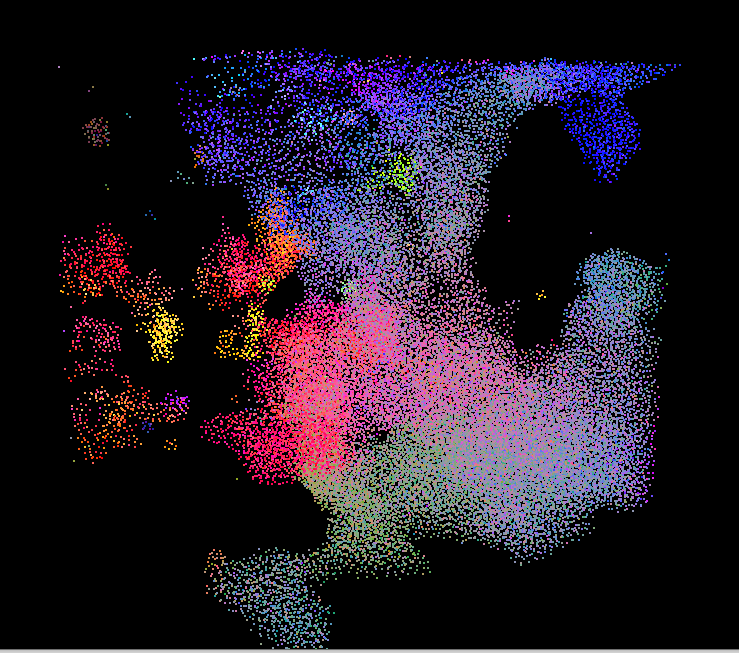
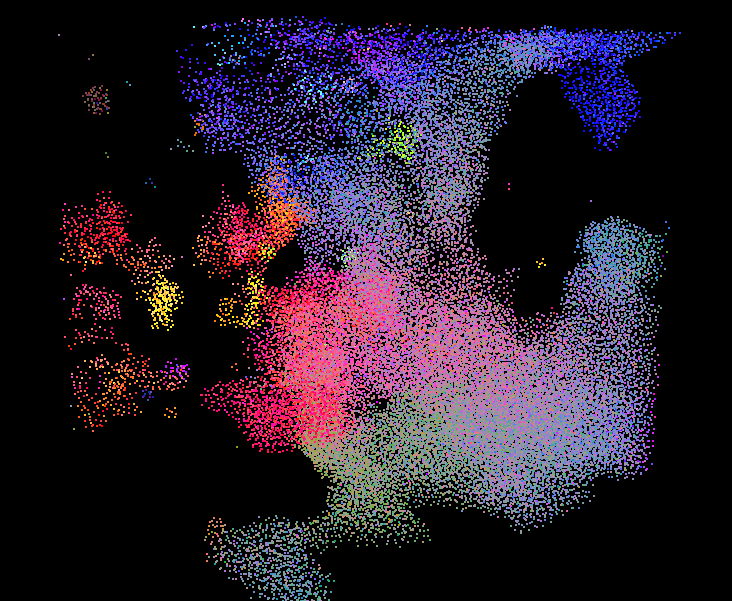
Updated blockSize performance analysis and README

diff --git a/src/main.cpp b/src/main.cpp
@@ -14,11 +14,11 @@
 
 // LOOK-2.1 LOOK-2.3 - toggles for UNIFORM_GRID and COHERENT_GRID
 #define VISUALIZE 1
-#define UNIFORM_GRID 1
-#define COHERENT_GRID 1
+#define UNIFORM_GRID 0
+#define COHERENT_GRID 0
 
 // LOOK-1.2 - change this to adjust particle count in the simulation
-const int N_FOR_VIS = 500000;
+const int N_FOR_VIS = 100000;
 const float DT = 0.2f;
 
 /**

diff --git a/README.md b/README.md
@@ -5,14 +5,22 @@ Project 1 - Flocking**
   * [LinkedIn](https://www.linkedin.com/in/wayne-wu/), [Personal Website](https://www.wuwayne.com/)
 * Tested on: Windows 10, AMD Ryzen 5 5600X @ 3.70GHz 32GB, RTX 3070 8GB (personal)
 
+## Background
+
+This project aims to introduce GPU programming in CUDA with boids flocking simulation.
+The simulation is based on the well established method developed by [Craig Reynolds](http://www.red3d.com/cwr/boids/).
+
+Three different approaches to the solution were implemented and analyzed for performance:
+1. **Brute-Force/Naive** approach that iterates over all boids when looking for the nearest neighbors.
+2. **Scattered uniform grid** approach that spatially divide all boids into grids for quick nearest neighbors look-up.
+3. **Semi-coherent uniform grid** approach that is based on Method 2, but with a more coherent memory access to the boids data.
+
 ## Screenshots
 
 ![](images/boidsScreenshot.png)
 
 ![](images/boidsAnimation1.gif)
-
 ![](images/boidsAnimation2.gif)
-
 
 ## Performance Analysis
 
@@ -39,19 +47,21 @@ Figure 4: Number of Blocks vs. Brute Force Method (N = 100000)
 For all implementations, increasing the number of boids decreases the average FPS.
 This is expected given that as we scale up the number, it will exceed the number of threads that can be run in parallel at one time.
 When we turn off the visualization, we can see that it increases the performance at lower number of boids.
-However, it does not matter as much when we increase the number of boids since at that point the computation for OpenGL draw 
+However, it does not matter as much when we increase the number of boids since at that point the computation for OpenGL draws 
 is too insignificant for the overall performance cost.
 
 **For each implementation, how does changing the block count and block size affect performance? Why do you think this is?**
 
-The block count and block size do not significantly affect the performance. For each implemntation, the average FPS stays roughly the same. This is expected as it simply configures how threads are grouped together, and does not affect the actual thread units that can be run in parallel. Therefore the overall performance will stay the same. There is, however, an optimal block size that can be configured to squeeze out a tiny bit of performance (Figure 4).
+The block count and block size do affect the performance. As shown in Figure 3, when the block size is small (e.g. less than 64), the performance is poorer. However, once it passes a threshold, the average FPS stays the same with increasing block size, until it very slightly decreases again at the largest block size possible, e.g. 1024, as shown in Figure 4. At low block size count, the total number of threads that can be run in parallel is less than the number of parallel executions required (i.e. the number of boids), hence the slow down. Once it reaches the threshold where parallelism is exhausted, there will be no additional performance gain. The very slight decrease in performance at very large block size suggests that there is an optimal block size value for best performance.
 
 **For the coherent uniform grid: did you experience any performance improvements with the more coherent uniform grid? Was this the outcome you expected? Why or why not?**
 
-The coherent uniform grid significantly improved the performance which is unexpected coming from traditional CPU-based programming. To have a coherent uniform grid, two new buffers and a new kernel were introduced which I initially thought would be more costly than removing the need to access the arrayIndices buffer. This turned out to be false, which proves that GPU is 
-definitely more costly at accessing shared memory.
+The coherent uniform grid significantly improved the performance which is unexpected coming from traditional CPU-based programming. To have a coherent uniform grid, two new buffers (i.e. dev_coherentPos and dev_coherentVel*) and a new kernel (i.e. kernRearrangeBoidData) were introduced which I initially thought would be more costly than removing the need to access the arrayIndices buffer. This turned out to be false, which proves that GPU is 
+very costly at accessing global memory.
+
+**Note that dev_coherentVel can most likely just be dev_vel1 or dev_vel2, thus removing the need for a new buffer.*
 
 **Did changing cell width and checking 27 vs 8 neighboring cells affect performance? Why or why not?**
 
 It did not significantly affect the performance.
-While it is true that we're traverseing more cells, each cell is now smaller as the cell width is the search radius instead of, previously, two times the search radius. As such, on average, the number of points inside each cell will now be smaller, and thus the overall iteration count does not change significantly.
+While it is true that we're traverseing more cells, each cell is now smaller as the cell width is the search radius instead of, previously, two times the search radius. As such, on average, the number of points inside each cell will now be smaller, and thus the overall iteration count can vary depending on the distribution of boids.
